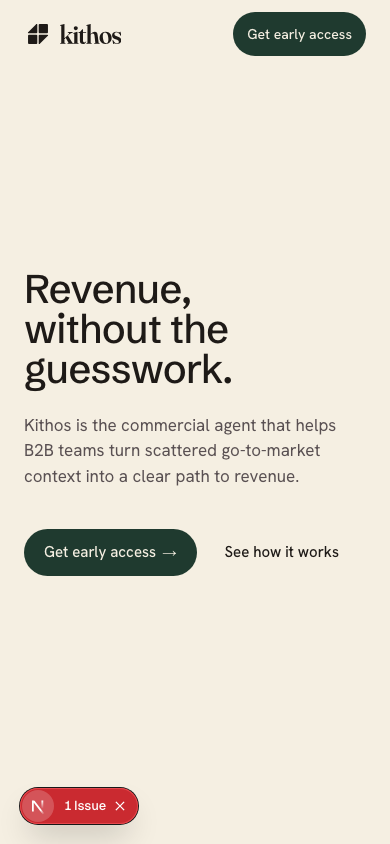
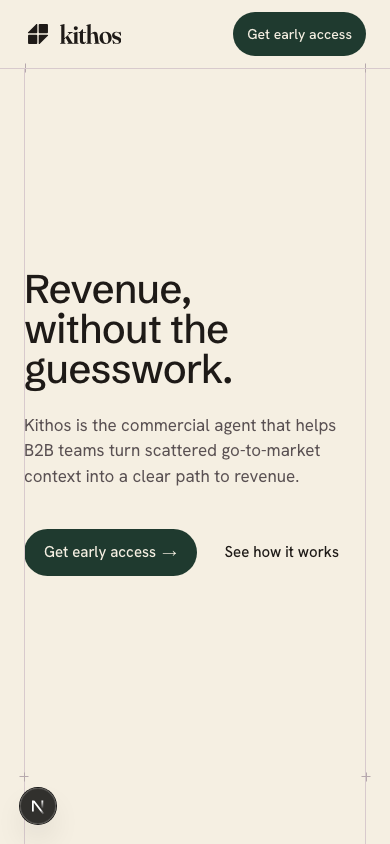
fix(v2): extend structural rails over ClosingBand
Rails + top/bottom hairlines were inside <main>, so they stopped
where the editorial body ended. ClosingBand (terracotta) sat
outside the frame.

Wrapped main + ClosingBand in a single position-relative parent
and moved the frame overlay there. The vertical rails, the corner
ticks, and the top/bottom hairlines now span the entire page below
the nav — site-wide, as intended.

The frame's --rule colour reads as a light hairline on both bone
(low contrast, intentional restraint) and terracotta (higher
contrast against the darker surface) — no per-surface adaptation
needed.

Visual baselines refreshed. 25/25 tests green.

Changed region(s): [[0.0308, 0.9242, 0.3692, 0.9858], [0.9231, 0.8934, 0.9538, 0.9242]]

diff --git a/src/app/v2/page.tsx b/src/app/v2/page.tsx
@@ -182,14 +182,22 @@ export default function V2Page() {
   return (
     <>
       <Nav />
-      <main id="main" className="relative">
-        <Hero />
-        <KithosBand />
-        <TabbedSections />
-        <MotionStatement />
-        {/* Page-level structural frame — vertical rails at the
-            86rem column edges + corner crosshair ticks. Drawn over
-            all sections at z-10; decorative. */}
+      {/* The structural frame spans EVERYTHING below the nav —
+          main + ClosingBand — so the rails read as a site-wide grid
+          rather than stopping at the editorial body. Wrapper is
+          position-relative so the frame's absolute overlay covers
+          both children. */}
+      <div className="relative">
+        <main id="main">
+          <Hero />
+          <KithosBand />
+          <TabbedSections />
+          <MotionStatement />
+        </main>
+        <ClosingBand />
+        {/* Vertical rails at the 86rem column edges + corner
+            crosshair ticks. z-10 sits above section bgs and below
+            the nav. */}
         <div
           aria-hidden
           className="pointer-events-none absolute inset-0 z-10 px-6 md:px-10"
@@ -201,8 +209,7 @@ export default function V2Page() {
             <GridTick className="left-full top-full" />
           </div>
         </div>
-        {/* Top/bottom hairlines bracketing main — part of the same
-            structural frame. */}
+        {/* Top/bottom hairlines bracketing the framed area. */}
         <div
           aria-hidden
           className="pointer-events-none absolute inset-x-0 top-0 z-10 h-px bg-[var(--rule)]"
@@ -211,8 +218,7 @@ export default function V2Page() {
           aria-hidden
           className="pointer-events-none absolute inset-x-0 bottom-0 z-10 h-px bg-[var(--rule)]"
         />
-      </main>
-      <ClosingBand />
+      </div>
     </>
   );
 }